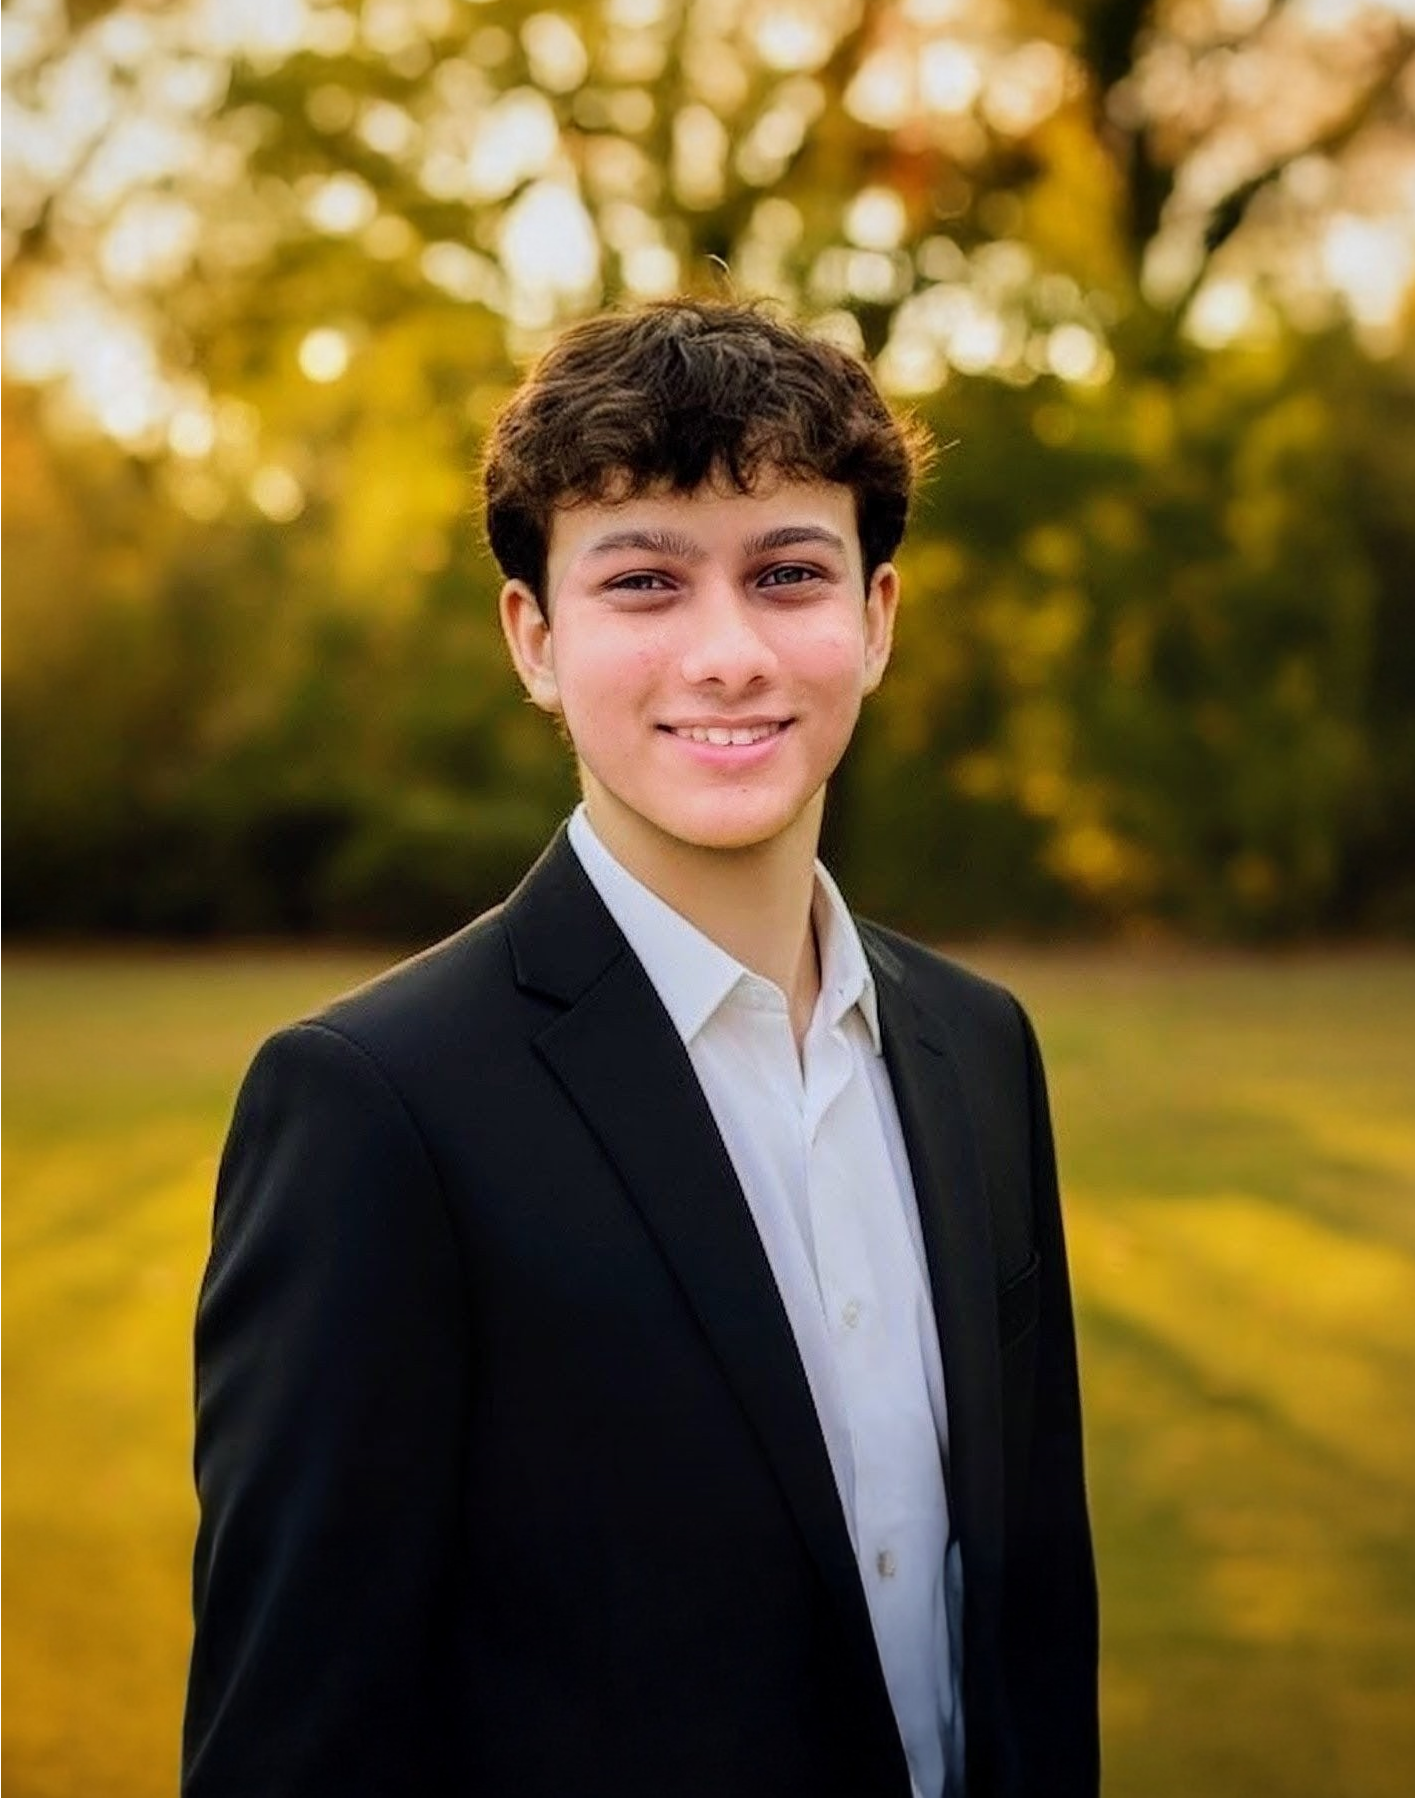
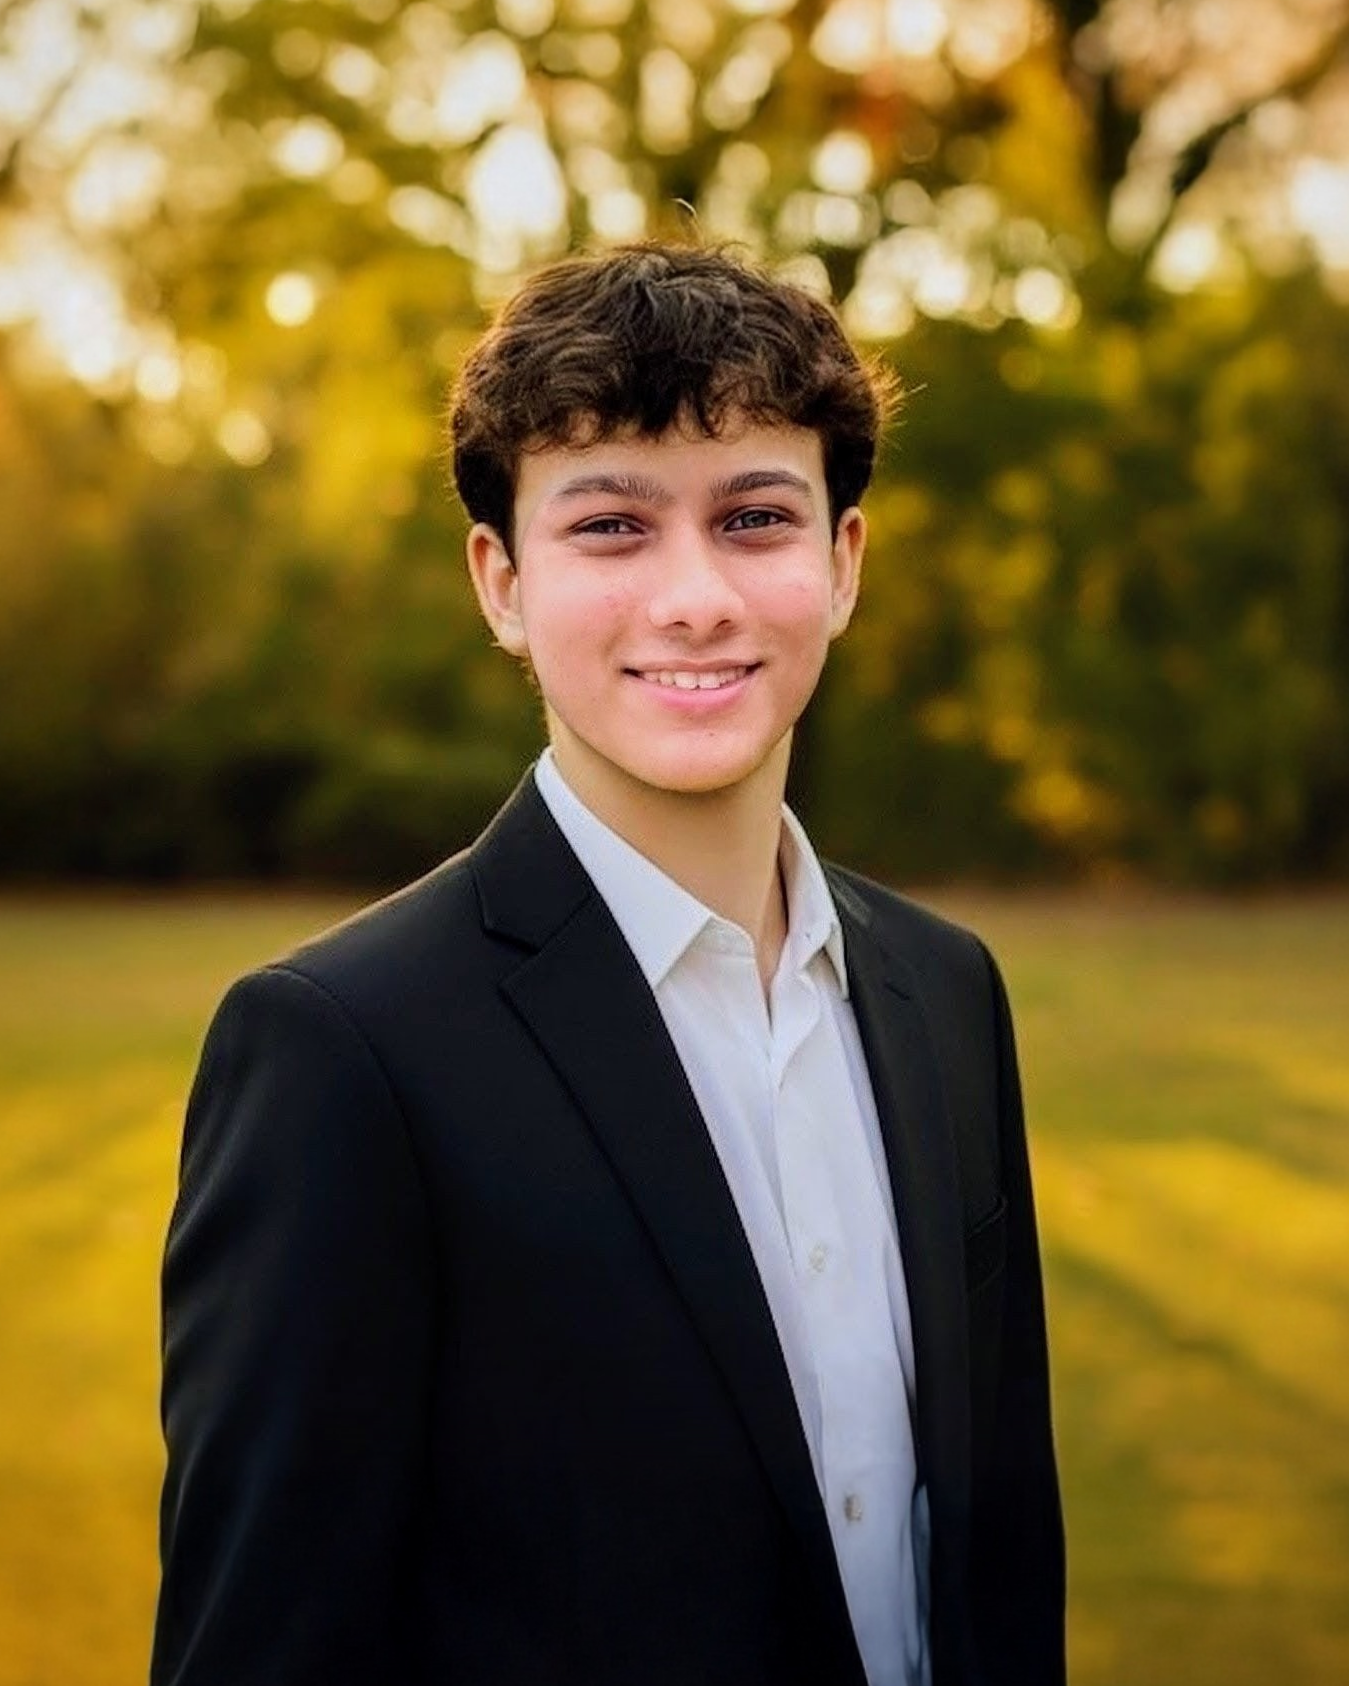
Update site data, adjust about layout, and fix typos

diff --git a/js/site-data.js b/js/site-data.js
@@ -157,22 +157,7 @@
         image: 'assets/journal-3.avif',
         href: 'journal-detail.html#filmmaker-programmer'
       },
-      {
-        slug: 'internship-thinking',
-        category: 'Career',
-        title: 'How I think about internships as a first-year student',
-        footerTitle: 'Internship Thinking',
-        image: 'assets/journal-1.avif',
-        href: 'journal-detail.html#internship-thinking'
-      },
-      {
-        slug: 'vanilla-js-defense',
-        category: 'Tech',
-        title: "Building without frameworks - a beginner's defense of vanilla JS",
-        footerTitle: 'Vanilla JS Defense',
-        image: 'assets/journal-2.avif',
-        href: 'journal-detail.html#vanilla-js-defense'
-      }
+
     ],
     services: [
       {
@@ -209,7 +194,7 @@
     roles: [
       {
         name: 'Raj Gupta',
-        role: 'Computer Engineer & MBA Student',
+        role: 'Student',
         image: 'assets/hero-home.png'
       },
       {
@@ -220,13 +205,9 @@
       {
         name: 'GDG Member',
         role: 'Creative Team - MPSTME',
-        image: 'assets/project-1.avif'
+        image: 'assets/gdg1.jpg'
       },
-      {
-        name: 'RAW Vision',
-        role: 'Cinematographer',
-        image: 'assets/project-2.avif'
-      }
+
     ],
     certifications: {
       rowOne: [

diff --git a/about.html b/about.html
@@ -55,9 +55,10 @@
         </figure>
         <div class="about-body-grid reveal">
           <div class="stack">
-            <span class="kicker">about Us.25</span>
+            <span class="kicker">about Us.26</span>
             <h2 class="display-title">about</h2>
           </div>
+          <br>
           <div class="stack muted">
             <p>I don't fit cleanly into one box - and I've stopped trying to.</p>
             <p>I'm a person who moves between code, product thinking,
@@ -79,7 +80,7 @@
             <div class="metric-label">Certifications Earned</div>
           </article>
           <article class="metric-card surface-card reveal">
-            <div class="metric-number stat-number" data-target="3" data-suffix="+">3+</div>
+            <div class="metric-number stat-number" data-target="2" data-suffix="+">2+</div>
             <div class="metric-label">Years of Creating</div>
           </article>
           <article class="metric-card surface-card reveal">

diff --git a/css/about.css b/css/about.css
@@ -7,7 +7,7 @@
 }
 
 .about-visual-band img {
-  width: 100%;
+  width: 40%;
   max-height: 70vh;
   object-fit: cover;
 }
